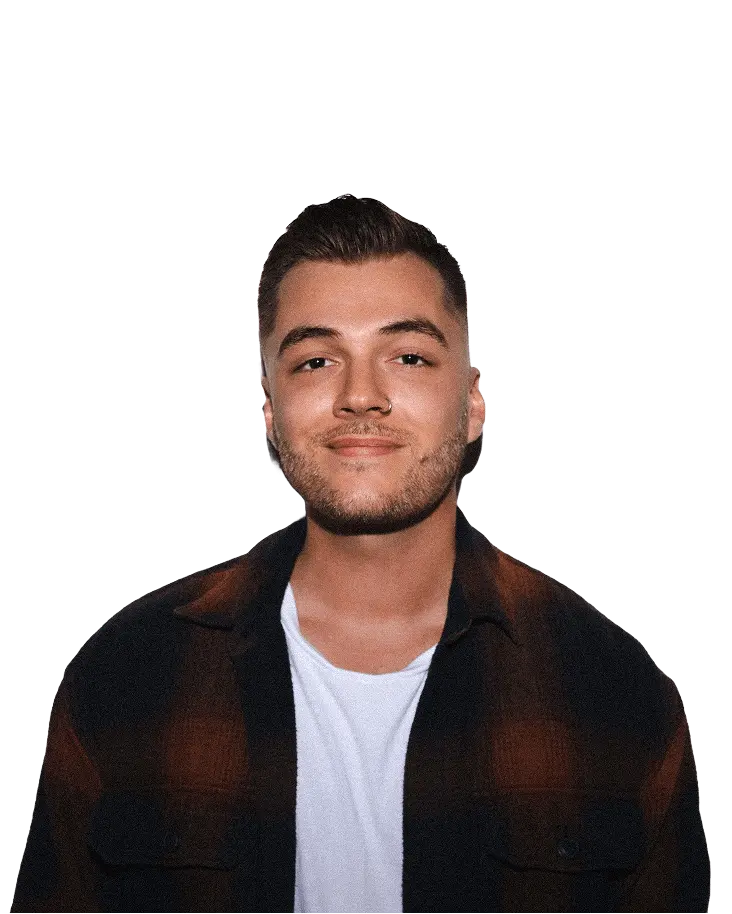
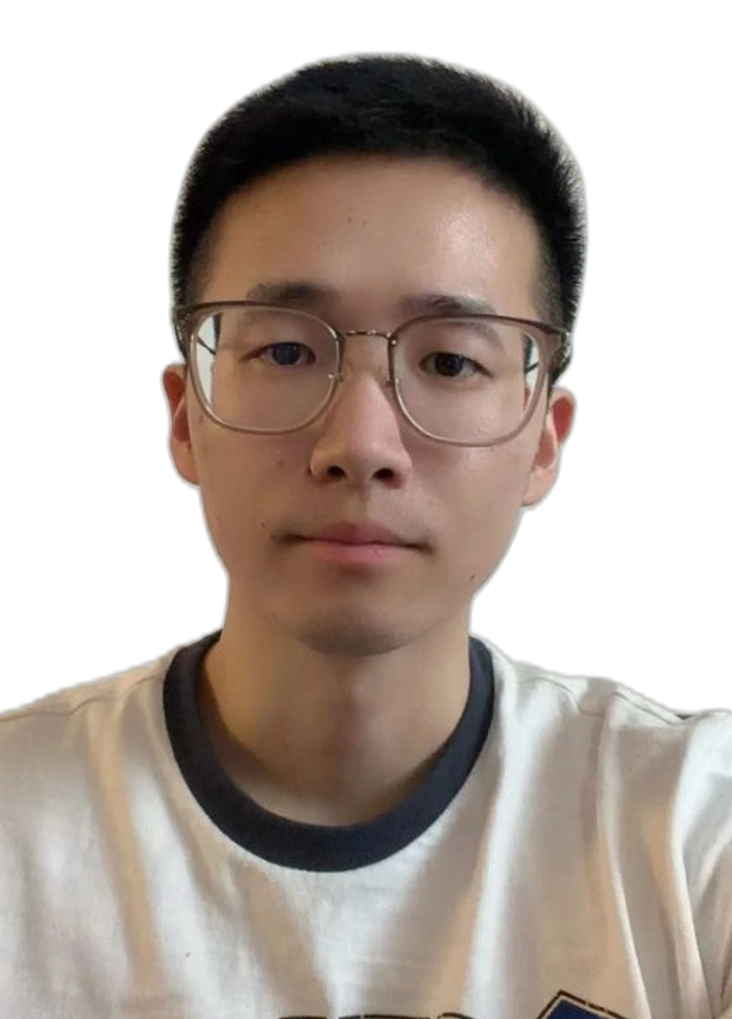
Show the profile photo in color instead of the luminosity blend.

diff --git a/src/components/profile-card/ProfileCard.tsx b/src/components/profile-card/ProfileCard.tsx
@@ -366,13 +366,14 @@ function ProfileCardComponent({
           <div className="pc-inside">
             <div className="pc-shine" />
             <div className="pc-glare" />
-            <div className="pc-content pc-avatar-content">
+            <div className="pc-content pc-avatar-content" style={{ mixBlendMode: "normal" }}>
               <img
                 className="avatar"
                 src={avatarUrl}
                 alt={`${name || "User"} avatar`}
                 loading="lazy"
                 onError={hideAvatar}
+                style={{ maxWidth: "none" }}
               />
               {showUserInfo && (
                 <div className="pc-user-info">

diff --git a/src/styles/profile-card.css b/src/styles/profile-card.css
@@ -260,14 +260,16 @@
 }
 
 .pc-avatar-content {
-  mix-blend-mode: luminosity;
+  mix-blend-mode: normal;
   overflow: visible;
   transform: translateZ(2px);
   backface-visibility: hidden;
 }
 
-.pc-avatar-content .avatar {
+.pc-card .pc-avatar-content img.avatar {
   width: 100%;
+  max-width: none;
+  border-radius: 0;
   position: absolute;
   left: 50%;
   transform-origin: 50% 100%;
